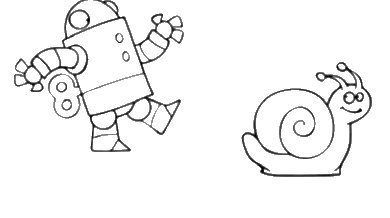
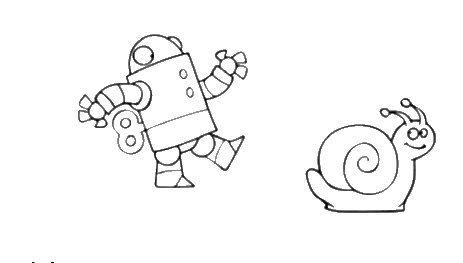
урок дома U2 L6: картинки AB «big» (мишка + девочка) и «slow» целиком
Claude-Session: https://claude.ai/code/session_01GpCm5ybvhiSft999Gor29k

diff --git a/gmf1/home/u2-l6/index.html b/gmf1/home/u2-l6/index.html
@@ -606,7 +606,7 @@ const ls={get:k=>{try{return JSON.parse(localStorage.getItem(k))}catch(e){return
 const P=Object.assign({top:0,listen:0,words:0,fav:0,song:0,ab1:0,ab2:0,ladder:0,match:0,light:{},tasks:[]},ls.get('home:'+LESSON)||{});
 const save=()=>{ls.set('home:'+LESSON,P);paint();};
 const toy=id=>TOYS.find(t=>t.id===id);
-const img=n=>'img/'+n+'.jpg?v=2';
+const img=n=>'img/'+n+'.jpg?v=3';
 
 // ── звук: пул разблокированных элементов (как html5-пул howler.js), файлы грузятся по требованию ──
 const POOL=[], POOL_N=4; let current=null, playToken=0, unlocked=false;
